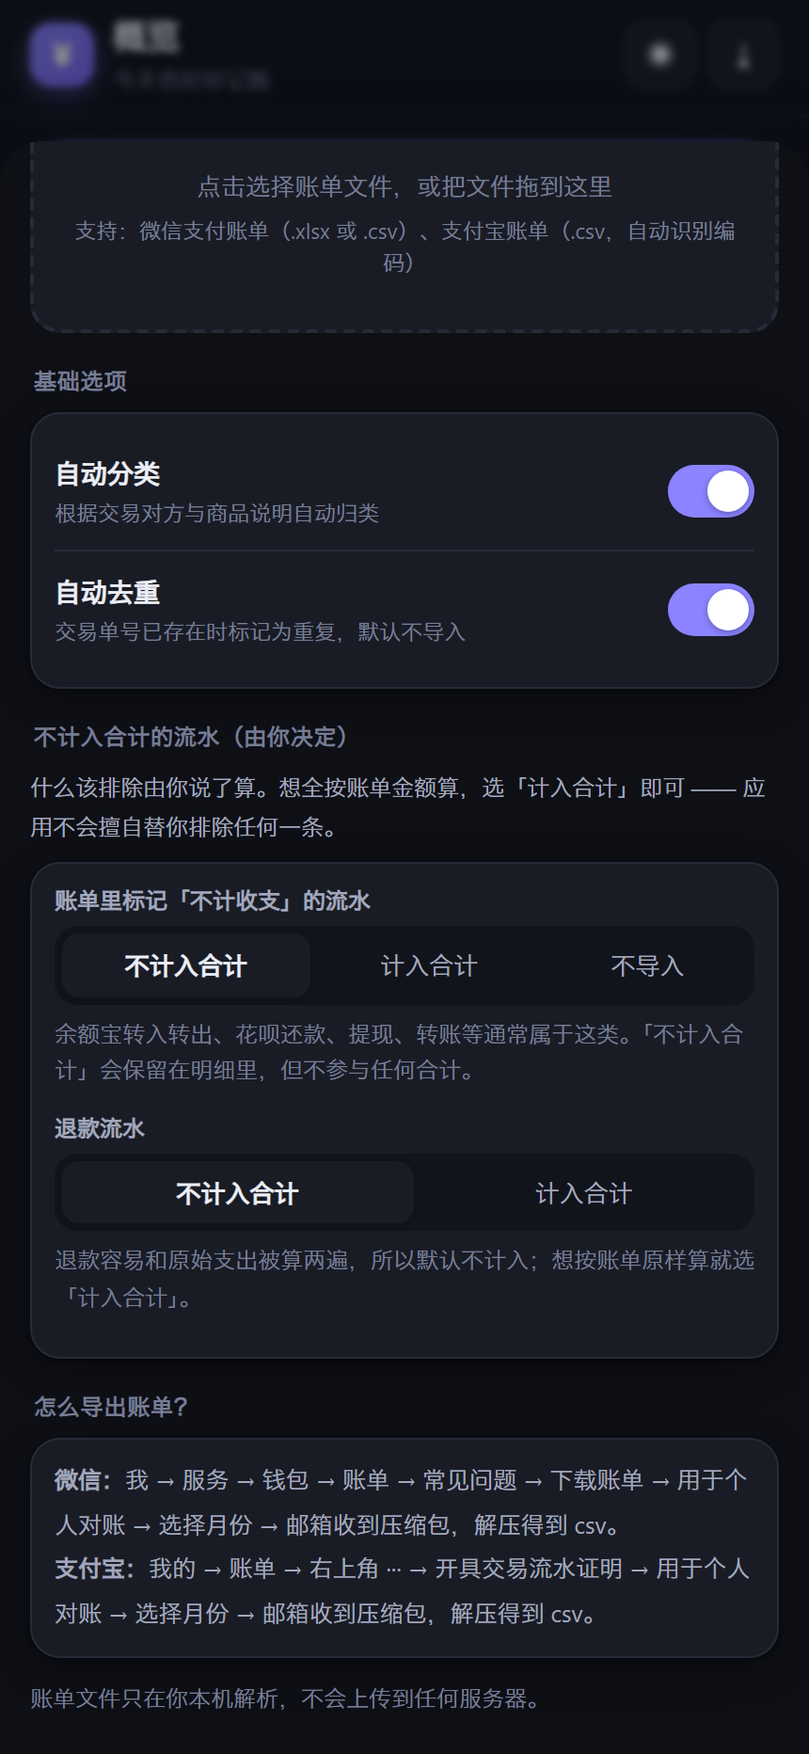
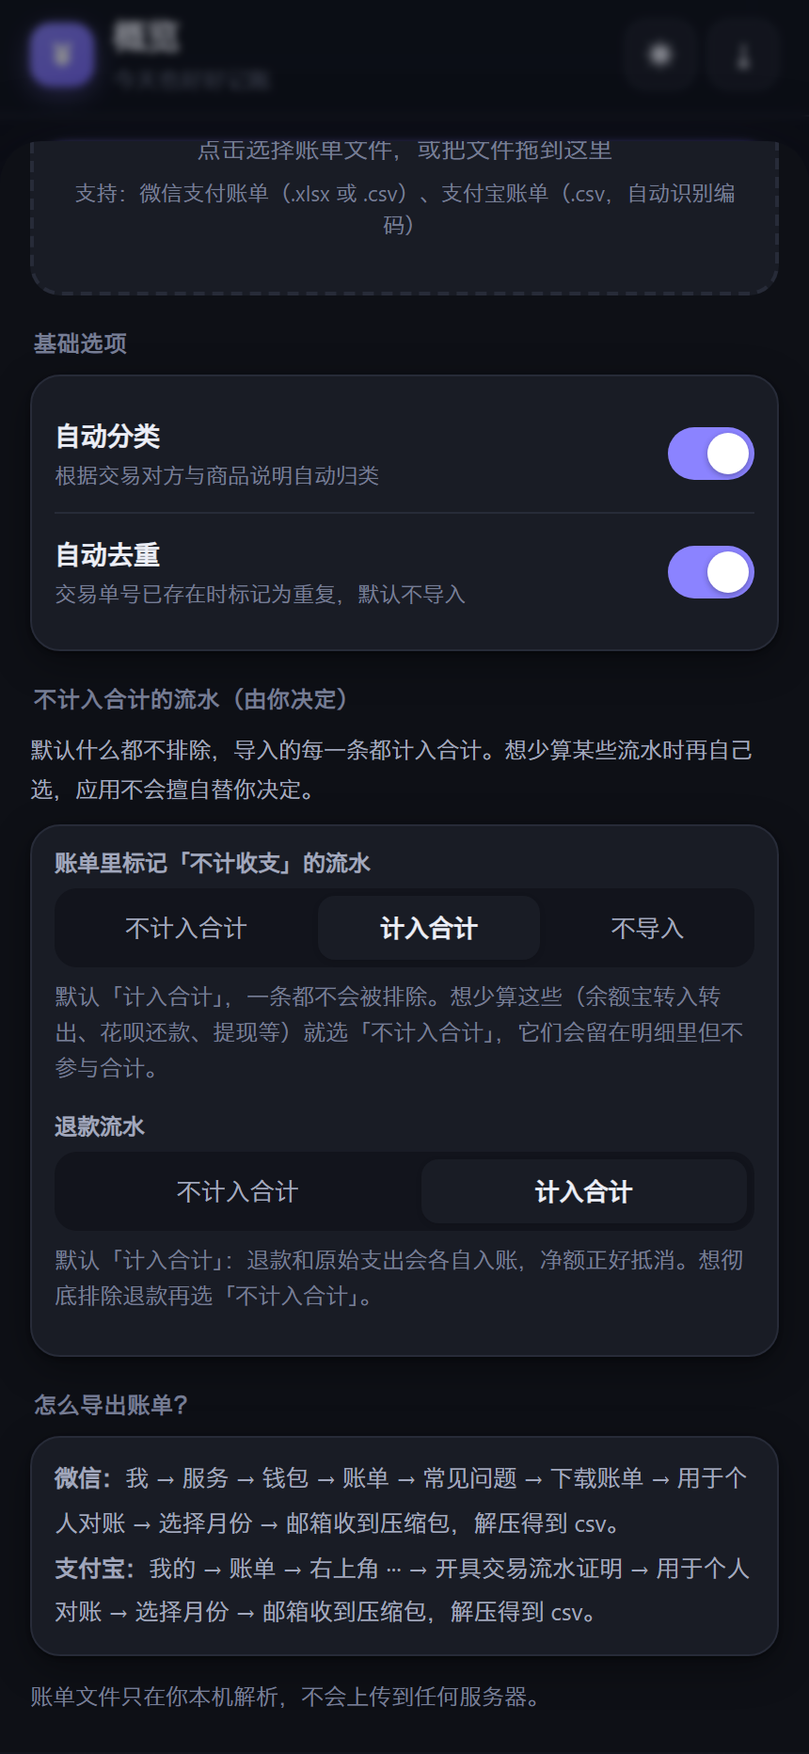
fix(import): 默认什么都不排除，并支持逐条切换是否计入合计
问题
- 上一版虽然把排除规则做成了可选项，但默认值仍是「不计入合计」，
  结果导入支付宝账单时，账单里标了「不计收支」的流水（余额宝转入转出、
  花呗还款、提现等）照样被整批排除，用户看到的还是一片「不计入统计」

修复
- 两档选项的默认值都改成「计入合计」：导入的每一条都算进合计，
  应用不再擅自替用户决定排除任何一条
- 导入预览表的最后一列改成可点的「计入 / 不计入」，逐条就能切换，
  不用为了个别流水重新导入一遍
- 顺带修正：原来默认「退款不计入合计」其实会让账目算错
  —— 只排除了退款收入、没排除原始支出，净额会多扣一次。
  现在默认两边都计入，净额正好抵消

测试
- 核心新增「不传任何排除选项时一条都不排除」的断言（119 项）
- 端到端新增导入面板默认值断言：默认选中「计入合计」（201 项）

diff --git a/tests/browser-suite.js b/tests/browser-suite.js
@@ -119,7 +119,7 @@
     '2026-10-03 09:00:00,转账,妈妈,生活费,收入,\u00a51000.00,零钱,已存入零钱,TEST0002,/,/',
     '2026-10-04 08:00:00,商户消费,上海地铁,地铁票款,支出,\u00a54.00,零钱,支付成功,TEST0003,M0003,/'
   ].join('\n');
-  const parsed = Importer.parse(csv, { autoClassify: true, dedupe: true, includeIgnore: false, excludeRefund: true });
+  const parsed = Importer.parse(csv, { autoClassify: true, dedupe: true, ignoreMode: 'skip', refundMode: 'count' });
   ok(parsed.items.length === 3, '导入引擎解析出 3 条');
   ok(parsed.detect.kind === 'wechat', '导入引擎识别为微信支付账单');
   ok(parsed.items.find((i) => i.tx.counterparty === '美团').tx.categoryName === '餐饮', '自动分类：美团 → 餐饮');
@@ -378,7 +378,7 @@
   ok(book.sheets.length >= 1, 'xlsx 读取成功，共 ' + book.sheets.length + ' 个工作表');
   ok(book.sheets[0].rows.length >= 6, '读到 ' + book.sheets[0].rows.length + ' 行数据');
 
-  const xp = await Importer.parseXlsx(xlsxBytes.buffer, { autoClassify: true, dedupe: true, includeIgnore: true, excludeRefund: true });
+  const xp = await Importer.parseXlsx(xlsxBytes.buffer, { autoClassify: true, dedupe: true, ignoreMode: 'exclude', refundMode: 'exclude' });
   ok(xp.source === 'xlsx', '识别为 Excel 来源');
   eq(xp.items.length, 4, '从 xlsx 里解析出 4 条流水');
   const findParty = (n) => xp.items.find((it) => it.tx.counterparty === n);
@@ -566,7 +566,7 @@
     '交易时间,交易分类,交易对方,对方账号,商品说明,收/支,金额,收/付款方式,交易状态,交易订单号,商家订单号,备注',
     '2026-08-01 00:00:00,投资理财,余额宝,,余额宝-收益发放,不计收支,0.02,余额宝,交易成功,GAIN0001,,/'
   ].join('\n');
-  const gainRes = Importer.parse(gainCsvFixture, { includeIgnore: true, excludeRefund: true, autoClassify: true, dedupe: true });
+  const gainRes = Importer.parse(gainCsvFixture, { ignoreMode: 'exclude', refundMode: 'exclude', autoClassify: true, dedupe: true });
   eq(gainRes.items.length, 1, '解析出 1 条收益流水');
   eq(gainRes.items[0].tx.type, 'income', '收益流水判定为收入方向');
   eq(gainRes.items[0].tx.excludeStat, true, '收益流水依然不计入统计');
@@ -598,17 +598,25 @@
   const modeSegs = $$('#sheetRoot .seg');
   ok(modeSegs.length >= 2, '有两组单选控件（不计收支 / 退款）：' + modeSegs.length + ' 组');
 
-  let picked = false;
   if (modeSegs.length) {
-    const btnCount = Array.prototype.slice.call(modeSegs[0].children)
-      .find((b) => b.textContent === '计入合计');
-    ok(!!btnCount, '找到「计入合计」按钮');
-    if (btnCount) {
-      btnCount.click();
+    const kids = Array.prototype.slice.call(modeSegs[0].children);
+    const active = kids.find((b) => b.classList.contains('is-active'));
+    ok(!!active && active.textContent === '计入合计',
+      '默认就选中「计入合计」（什么都不排除）：' + (active ? active.textContent : '-'));
+    eq(UI.state.importOpts.ignoreMode, 'count', '导入面板默认 ignoreMode=count');
+    eq(UI.state.importOpts.refundMode, 'count', '导入面板默认 refundMode=count');
+
+    const btnEx = kids.find((b) => b.textContent === '不计入合计');
+    ok(!!btnEx, '找到「不计入合计」按钮');
+    if (btnEx) {
+      btnEx.click();
       await wait(180);
-      picked = btnCount.classList.contains('is-active');
-      ok(picked, '点击后「计入合计」被选中');
-      ok(UI.state.importOpts.ignoreMode === 'count', '选项已写入 ignoreMode=count');
+      ok(btnEx.classList.contains('is-active'), '可以切到「不计入合计」');
+      eq(UI.state.importOpts.ignoreMode, 'exclude', '切换后写入 ignoreMode=exclude');
+      const btnBack = Array.prototype.slice.call(modeSegs[0].children)
+        .find((b) => b.textContent === '计入合计');
+      if (btnBack) { btnBack.click(); await wait(150); }
+      eq(UI.state.importOpts.ignoreMode, 'count', '再切回「计入合计」');
     }
   }
   UI.closeSheet();
@@ -625,8 +633,8 @@
   eq(segRes.items.filter((it) => it.tx.excludeStat).length, 0, '「计入合计」模式下没有任何一条被排除');
   eq(segRes.items.find((it) => it.tx.counterparty === '学校餐厅').tx.excludeStat, false, '学校餐厅照常计入');
 
-  UI.state.importOpts.ignoreMode = 'exclude';
-  UI.state.importOpts.refundMode = 'exclude';
+  UI.state.importOpts.ignoreMode = 'count';
+  UI.state.importOpts.refundMode = 'count';
 
   /* ---------- 32. 图片报告抬头可自定义 ---------- */
   UI.go('stats');

diff --git a/web/js/ui.js b/web/js/ui.js
@@ -1443,9 +1443,9 @@
     const opts = UI.state.importOpts = UI.state.importOpts || {
       autoClassify: Store.settings.autoClassifyOnImport,
       dedupe: Store.settings.dedupeOnImport,
-      // 默认只是「尊重账单自己写的标记」，排除与否完全由用户在界面上决定
-      ignoreMode: 'exclude',
-      refundMode: 'exclude'
+      // 默认什么都不排除：导入的每一条都计入合计，要排除哪条由用户自己决定
+      ignoreMode: 'count',
+      refundMode: 'count'
     };
 
     const drop = U.el('div', { class: 'drop' }, [
@@ -1568,17 +1568,17 @@
 
       U.el('div', { class: 'section-label', text: '不计入合计的流水（由你决定）' }),
       U.el('p', { style: { fontSize: '12px', color: 'var(--text-soft)', lineHeight: '1.75', margin: '0 0 8px' },
-        text: '什么该排除由你说了算。想全按账单金额算，选「计入合计」即可 —— 应用不会擅自替你排除任何一条。' }),
+        text: '默认什么都不排除，导入的每一条都计入合计。想少算某些流水时再自己选，应用不会擅自替你决定。' }),
       U.el('div', { class: 'card tight' }, [
         modeField('ignoreMode', '账单里标记「不计收支」的流水', [
           { v: 'exclude', n: '不计入合计' },
           { v: 'count', n: '计入合计' },
           { v: 'skip', n: '不导入' }
-        ], '余额宝转入转出、花呗还款、提现、转账等通常属于这类。「不计入合计」会保留在明细里，但不参与任何合计。'),
+        ], '默认「计入合计」，一条都不会被排除。想少算这些（余额宝转入转出、花呗还款、提现等）就选「不计入合计」，它们会留在明细里但不参与合计。'),
         modeField('refundMode', '退款流水', [
           { v: 'exclude', n: '不计入合计' },
           { v: 'count', n: '计入合计' }
-        ], '退款容易和原始支出被算两遍，所以默认不计入；想按账单原样算就选「计入合计」。')
+        ], '默认「计入合计」：退款和原始支出会各自入账，净额正好抵消。想彻底排除退款再选「不计入合计」。')
       ]),
       U.el('div', { class: 'section-label', text: '怎么导出账单？' }),
       U.el('div', { class: 'card tight', style: { fontSize: '12.5px', color: 'var(--text-soft)', lineHeight: '1.9' }, html:
@@ -1683,14 +1683,36 @@
       return sel;
     }
 
+    /* 状态列：重复 / 疑似重复只做标记；其余每一行都能直接点着切换「计入 / 不计入」，
+       这样哪一条不计入统计，完全由你逐条决定 */
     function renderRowStatus(it) {
       const cell = it._statusCell;
       if (!cell) return;
       U.clear(cell);
-      if (it.dup) cell.appendChild(U.el('span', { class: 'badge warn', title: it.dupReason || '', text: '重复' }));
-      else if (it.suspect) cell.appendChild(U.el('span', { class: 'badge warn', title: it.suspectReason || '', text: '疑似重复' }));
-      else if (it.tx.excludeStat) cell.appendChild(U.el('span', { class: 'badge mute', text: '不计入' }));
-      else cell.appendChild(U.el('span', { class: 'badge primary', text: '新增' }));
+
+      if (it.dup) {
+        cell.appendChild(U.el('span', { class: 'badge warn', title: it.dupReason || '', text: '重复' }));
+        return;
+      }
+      if (it.suspect) {
+        cell.appendChild(U.el('span', { class: 'badge warn', title: it.suspectReason || '', text: '疑似重复' }));
+        return;
+      }
+
+      cell.appendChild(U.el('button', {
+        class: 'badge ' + (it.tx.excludeStat ? 'mute' : 'primary'),
+        style: { border: '0', cursor: 'pointer', fontFamily: 'inherit' },
+        title: it.tx.excludeStat
+          ? '当前不计入合计（' + (it.tx.excludeReason || '未注明') + '），点一下改成计入'
+          : '当前计入合计，点一下改成不计入',
+        text: it.tx.excludeStat ? '不计入' : '计入',
+        onclick: () => {
+          it.tx.excludeStat = !it.tx.excludeStat;
+          it.tx.excludeReason = it.tx.excludeStat ? (it.tx.excludeReason || '手动标记') : '';
+          renderRowStatus(it);
+          refreshStat();
+        }
+      }));
     }
 
     /* 行样式：重复=红底、疑似重复=黄底、未勾选=淡化 */

diff --git a/tests/core.test.js b/tests/core.test.js
@@ -85,7 +85,7 @@ function catName(tx) { return tx.categoryName || '(未分类)'; }
 
   /* ---------- 3. 微信账单解析 ---------- */
   section('3. 微信支付账单解析');
-  const opts = { autoClassify: true, dedupe: true, includeIgnore: false, excludeRefund: true };
+  const opts = { autoClassify: true, dedupe: true, ignoreMode: 'skip', refundMode: 'exclude' };
   const wRes = Importer.parse(wDec.text, opts);
   eq(wRes.detect.kind, 'wechat', '识别为微信支付账单');
   eq(wRes.items.length, 6, '解析出 6 条有效流水（另有 1 条「不计收支」被忽略）');
@@ -248,8 +248,8 @@ function catName(tx) { return tx.categoryName || '(未分类)'; }
   lines.push('共 137 笔记录');
   const bigText = lines.join('\n');
 
-  const base = { excludeRefund: true, autoClassify: true, dedupe: true };
-  const r1 = Importer.parse(bigText, Object.assign({ includeIgnore: false }, base));
+  const base = { refundMode: 'exclude', autoClassify: true, dedupe: true };
+  const r1 = Importer.parse(bigText, Object.assign({ ignoreMode: 'skip' }, base));
   const s1 = r1.stats;
   console.log('    文件 ' + s1.dataRows + ' 行 = 导入 ' + r1.items.length + ' + 忽略 ' + s1.ignored + ' + 跳过 ' + s1.skipped);
   eq(s1.dataRows, 139, '文件里共 139 行数据（137 笔流水 + 结尾 2 行说明）');
@@ -262,7 +262,7 @@ function catName(tx) { return tx.categoryName || '(未分类)'; }
   eq(s1.skipReasons.footer, 2, '跳过原因里「结尾说明行」2 条');
   eq(s1.dup + s1.suspect, 0, '这批数据里没有重复');
 
-  const r2 = Importer.parse(bigText, Object.assign({ includeIgnore: true }, base));
+  const r2 = Importer.parse(bigText, Object.assign({ ignoreMode: 'exclude' }, base));
   const s2 = r2.stats;
   eq(r2.items.length, 130, '打开选项后导入 130 条');
   eq(s2.ignored, 0, '不再有被忽略的行');
@@ -278,7 +278,7 @@ function catName(tx) { return tx.categoryName || '(未分类)'; }
     '交易时间,交易类型,交易对方,商品,收/支,金额(元),支付方式,当前状态,交易单号,商户单号,备注',
     serial(2026, 9, 2) + ',商户消费,校园食堂,午餐,支出,¥15.00,零钱,支付成功,XS0001,M01,/'
   ].join('\n');
-  const rSerial = Importer.parse(xlsxLike, { includeIgnore: true, excludeFilter: true });
+  const rSerial = Importer.parse(xlsxLike, {});
   eq(rSerial.items.length, 1, '解析出 1 条');
   eq(U.toISODate(new Date(rSerial.items[0].tx.time)), '2026-09-02', '日期序列号被正确还原成 2026-09-02');
   near(rSerial.items[0].tx.amount, 15, '金额正确');
@@ -294,7 +294,7 @@ function catName(tx) { return tx.categoryName || '(未分类)'; }
     '2026-09-05 00:00:00,转账,银行卡,,转账-转账到银行卡,不计收支,300.00,余额宝,交易成功,AT0005,,/',
     '2026-09-06 00:00:00,其他,零钱通,,零钱提现,不计收支,100.00,零钱,提现成功,AT0006,,/'
   ].join('\n');
-  const hintRes = Importer.parse(hintCsv, { includeIgnore: true, excludeRefund: true, autoClassify: true, dedupe: true });
+  const hintRes = Importer.parse(hintCsv, { ignoreMode: 'exclude', refundMode: 'exclude', autoClassify: true, dedupe: true });
   eq(hintRes.items.length, 6, '解析出 6 条「不计收支」流水');
   const typeOf = (kw) => {
     const it = hintRes.items.find((x) => (x.tx.item + ' ' + x.tx.counterparty).indexOf(kw) >= 0);
@@ -340,6 +340,10 @@ function catName(tx) { return tx.categoryName || '(未分类)'; }
   const mC = Importer.parse(modeCsv, Object.assign({ ignoreMode: 'skip', refundMode: 'count' }, mBase));
   eq(mC.items.length, 2, '「不导入」模式：只导入 2 条普通收支');
   eq(mC.stats.ignored, 2, '另外 2 条「不计收支」被跳过');
+
+  const mD = Importer.parse(modeCsv, mBase);
+  eq(mD.items.length, 4, '不传任何排除选项时：4 条全部导入');
+  eq(mD.items.filter((it) => it.tx.excludeStat).length, 0, '默认（什么都不传）：一条都不排除');
 
   /* ---------- 15. 图片报告的抬头 ---------- */
   section('15. 图片报告的抬头可以自定义');

diff --git a/tools/browser-test.js b/tools/browser-test.js
@@ -204,6 +204,27 @@ async function main() {
       fs.writeFileSync(file, Buffer.from(shot.data, 'base64'));
       console.log('截图已保存：' + path.relative(ROOT, file));
     }
+    // 导入预览截图（展示每行可切换「计入 / 不计入」）
+    await client.send('Runtime.evaluate', {
+      expression: '(function(){'
+        + 'var csv=["交易时间,交易类型,交易对方,商品,收/支,金额(元),支付方式,当前状态,交易单号,商户单号,备注",'
+        + '"2026-10-08 12:30:00,商户消费,校园食堂,午餐,支出,¥15.00,零钱,支付成功,PV0001,M001,/",'
+        + '"2026-10-08 19:00:00,转账,爸爸,生活费,收入,¥2000.00,零钱,已存入零钱,PV0002,/,/",'
+        + '"2026-10-09 07:00:00,零钱提现,零钱提现,提现到银行卡,不计收支,¥500.00,零钱,提现成功,PV0003,/,/",'
+        + '"2026-10-09 20:00:00,商户消费,美团,外卖,支出,¥32.50,零钱通,支付成功,PV0004,M002,/"].join("\\n");'
+        + 'UI.state.importSource={kind:"csv",text:csv,name:"示例账单.csv",encoding:"UTF-8"};'
+        + 'UI.openImportSheet();'
+        + 'setTimeout(function(){var b=document.querySelectorAll("#sheetRoot button");'
+        + 'for(var i=0;i<b.length;i++){if(b[i].textContent.indexOf("重新解析")>=0){b[i].click();break;}}},700);'
+        + '})()'
+    });
+    await sleep(1800);
+    const shotPrev = await client.send('Page.captureScreenshot', { format: 'png' });
+    fs.writeFileSync(path.join(SHOT_DIR, 'import-preview.png'), Buffer.from(shotPrev.data, 'base64'));
+    console.log('截图已保存：' + path.relative(ROOT, path.join(SHOT_DIR, 'import-preview.png')));
+    await client.send('Runtime.evaluate', { expression: 'UI.closeSheet(); UI.state.importSource=null;' });
+    await sleep(400);
+
     // 导入选项面板截图
     await client.send('Runtime.evaluate', {
       expression: 'UI.go("home"); setTimeout(function(){ UI.openImportSheet(); setTimeout(function(){ var s=document.querySelector("#sheetRoot .sheet"); if(s) s.scrollTop = 430; }, 500); }, 200);'

diff --git a/web/js/importer.js b/web/js/importer.js
@@ -266,11 +266,11 @@
   I.parseRows = function (rows, opts, meta) {
     opts = Object.assign({
       /* 账单里标记「不计收支」的流水怎么处理 —— 由用户决定，应用不替他做主张
-         exclude = 保留在明细里但不计入合计（默认，尊重账单自己的标记）
-         count   = 当作正常收入/支出，全部计入合计
+         count   = 当作正常收入/支出，全部计入合计（默认：什么都不排除）
+         exclude = 保留在明细里但不计入合计
          skip    = 这些流水完全不导入 */
-      ignoreMode: 'exclude',
-      refundMode: 'exclude',   // 退款流水：exclude = 不计入合计 | count = 计入合计
+      ignoreMode: 'count',
+      refundMode: 'count',   // 退款流水：count = 计入合计（默认）| exclude = 不计入合计
       autoClassify: true,
       dedupe: true
     }, opts || {});

diff --git a/tools/build-apk.js b/tools/build-apk.js
@@ -37,7 +37,7 @@ const WEB = path.join(ROOT, 'web');
 const DIST = path.join(ROOT, 'dist');
 const KEYSTORE_STORE = path.join(SRC, 'jizhangben.keystore');
 
-const APP_VERSION = '1.1.5';
+const APP_VERSION = '1.1.6';
 const APK_NAME = '记账本-v' + APP_VERSION + '.apk';
 const KS_PASS = 'jizhangben';
 const KS_ALIAS = 'jizhangben';

diff --git a/docs/账单导入指南.md b/docs/账单导入指南.md
@@ -46,51 +46,26 @@
 | 自动去重 | 开 | 交易单号已存在的标为重复，默认不导入 |
 | 账单里标记「不计收支」的流水 | 不计入合计 | **由你决定**，三选一（见下） |
 
-### 「不计入合计」由你自己决定
+### 默认什么都不排除，要不要排除由你决定
 
-应用**不会替你决定**哪些流水该排除。导入前在选项里选：
+应用**不会替你决定**哪些流水该排除。导入面板里有两档设置，默认都是「计入合计」：
 
-| 选项 | 三档含义 |
+| 选项 | 各档含义 |
 | --- | --- |
-| 账单里标记「不计收支」的流水 | **不计入合计**（默认）：保留在明细里，但不参与任何合计<br>**计入合计**：当作正常收入/支出，全部算进合计<br>**不导入**：这些流水完全不导入 |
-| 退款流水 | **不计入合计**（默认）：避免退款和原始支出被算两遍<br>**计入合计**：按账单原样算 |
+| 账单里标记「不计收支」的流水 | **计入合计（默认）**：当作正常收入/支出，全部算进合计，一条都不排除<br>**不计入合计**：保留在明细里，但不参与任何合计<br>**不导入**：这些流水完全不导入 |
+| 退款流水 | **计入合计（默认）**：退款和原始支出各自入账，净额正好抵消<br>**不计入合计**：两边都从合计里排除 |
 
-> **如果你希望"所有东西都进入收支"**：把第一档选成「计入合计」、第二档也选成「计入合计」，
-> 这样导入的每一条都会算进合计，一条都不会被排除。
+**为什么默认是「计入合计」**：余额宝转入转出、花呗还款、提现这些流水，支付宝自己的账单里
+会标成「不计收支」，但它们未必是你不想要的 —— 直接按账单金额算，最不容易出错。
 
-导入预览页还会显示排除构成（例如「账单标记「不计收支」86 条 · 退款 2 条」），
-并提供一个**「全部计入合计」**按钮，一键改成不排除任何流水。
+想少算这类流水时，再把对应那一档改成「不计入合计」即可。
+
+**还可以逐条改**：导入预览表的最后一列就是「计入 / 不计入」，
+点一下就能单独切换这一条，不用为了个别流水重新导入。
 
 > **关于「不计收支」的正负号**：这类流水在账单里不带方向，应用会根据描述自动判断。
 > 例如「余额宝-收益发放」显示为 **+0.02**，「余额宝-单次转出」显示为 **-150.00**。
-> 方向只影响显示的正负号，与是否计入合计无关。
-| 退款流水不计入统计 | 开 | 避免退款与原始支出两边都算 |
-
-已经选过文件后，改了选项可以点 **「用下面的选项重新解析」** 重新计算，不用重新选文件。
-
----
-
-## 三、文件里有 141 条，为什么只导入 55 条？
-
-先别慌，数据大概率没丢，预览页会把这笔账算得清清楚楚：
-
-```
-文件里共 141 行数据　→　生成 141 条记录
-新增 55　·　重复 0　·　疑似重复 0　·　不计入统计 86
-已勾选 141 条，净额 ¥xxxx
-```
-
-常见的"少掉"其实分三种情况：
-
-| 情况 | 去哪了 | 怎么办 |
-| --- | --- | --- |
-| **「不计收支」流水** | 默认会一起导入，但标记为「不计入统计」，所以不计入收支合计。如果关掉了这个选项，它们会被整批跳过 | 预览页会弹出黄色提示，点「把「不计收支」也一起导入」即可 |
-| **重复 / 疑似重复** | 默认不勾选（防止重复记账），但仍列在表格里 | 确认不是同一笔，点「连疑似重复一起选」 |
-| **交易已关闭 / 失败 / 缺少金额** | 这些行本来就无效，会跳过 | 预览页会列出跳过原因和条数 |
-
-**判断方法**：预览页顶部有一行「文件里共 N 行数据 → 生成 M 条记录」，
-再加一行「无法识别的行：交易已关闭 4、缺少金额 3」。两行数字对得上，就说明每一行都有归宿。
-
+> 正负号只影响显示，和是否计入合计是两回事。
 ## 四、重复的账单会被自动识别
 
 应用有两级重复识别，**默认都不会导入**，避免"先手动记了一笔、后来又导入账单"造成的重复记账：

diff --git a/README.md b/README.md
@@ -19,7 +19,7 @@
 
 **方式二：用仓库里的安装包**
 
-**安装包位置：`dist/记账本-v1.1.5.apk`**
+**安装包位置：`dist/记账本-v1.1.6.apk`**
 
 1. 把 APK 传到手机上（微信文件传输助手、数据线、QQ 都行）
 2. 手机上点开安装，提示"未知来源应用"时选**允许**
@@ -43,8 +43,9 @@
 - 内置 19 组关键词自动分类，可自定义规则
 - **两级重复识别**：交易单号相同 → 标记「重复」；同一天同金额 → 标记「疑似重复」。
   两者默认都不勾选，避免"先手动记了一笔、后来又导入账单"造成的重复记账
-- **排除规则完全由你决定**：账单里标「不计收支」的流水可以选「计入合计 / 不计入合计 / 不导入」，
-  退款流水也可以选。想全部计入就选「计入合计」，应用不会擅自替你排除任何一条
+- **默认什么都不排除**：账单里标「不计收支」的流水也照样计入合计，应用不会擅自替你判断。
+  想少算这类流水（余额宝转入转出、花呗还款等），在导入面板里改成「不计入合计」即可；
+  预览表最后一列还能逐条点着切换
 - 「不计收支」的流水会**自动判断收支方向**（余额宝收益显示 +0.02、转出显示 -150.00），
   不再一律当成支出显示成负数
 - **每一行都有明确归宿**：预览页会写清「文件里共 N 行数据 → 生成 M 条记录，另有 X 行无法识别」，

diff --git a/docs/Android打包指南.md b/docs/Android打包指南.md
@@ -1,6 +1,6 @@
 # 安卓打包指南
 
-安装包位置：**`dist/记账本-v1.1.5.apk`**
+安装包位置：**`dist/记账本-v1.1.6.apk`**
 
 本项目的安卓版是一个**自带的浏览器外壳**：把 `web/` 目录下的网页应用装进一个
 不依赖任何第三方库的原生 WebView 里。整包只有 119 KB，不需要网络，

diff --git a/docs/使用说明.md b/docs/使用说明.md
@@ -19,7 +19,7 @@
 
 ## 安卓 App 版
 
-如果手机装的是 `dist/记账本-v1.1.5.apk`，那么：
+如果手机装的是 `dist/记账本-v1.1.6.apk`，那么：
 
 - 不需要电脑，不需要 WiFi 或流量，飞行模式也能记账
 - 数据存在手机本地，**卸载应用会一起删除**，请定期导出 JSON 备份
